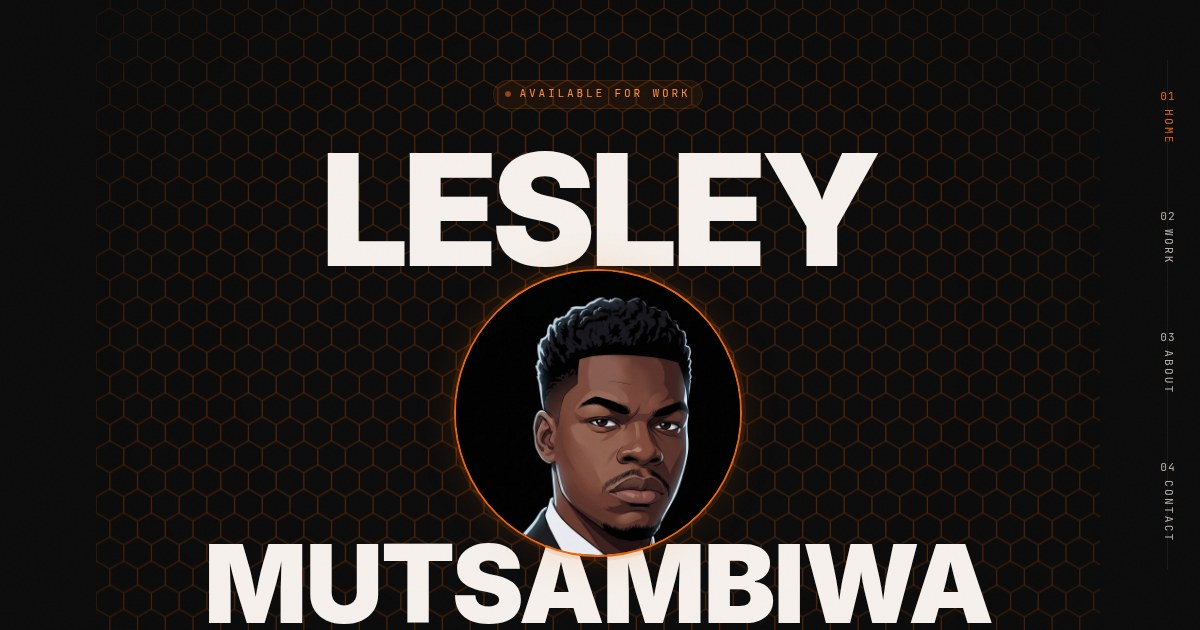
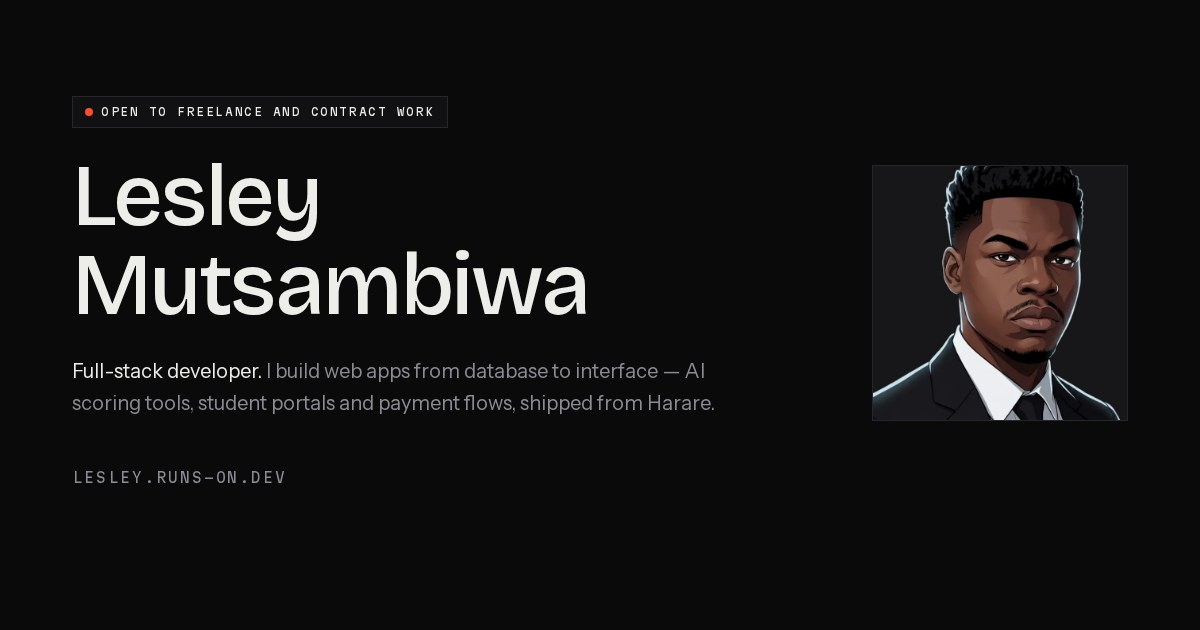
refactor: focus the site on full-stack work only
- Remove the design gallery, Kinto Designs copy and the design profile link
- Services headline now introduces the engineering ledger it sits above
- Delete unused design pieces, Vite-era screenshots and JSON, and the old
  hero portrait
- Regenerate the share image from the current hero; the old one showed a
  previous design

diff --git a/src/components/home/services-section.tsx b/src/components/home/services-section.tsx
@@ -1,12 +1,4 @@
 import Link from "next/link";
-import Image, { type StaticImageData } from "next/image";
-import auFlyer from "@/assets/images/design/africa-university-flyer.webp";
-import gdgWelcome from "@/assets/images/design/gdg-3.webp";
-import gdgJoin from "@/assets/images/design/join-93-8.webp";
-import goldenLogo from "@/assets/images/design/logo-93-8.webp";
-import goldenFlyer from "@/assets/images/design/gold-brand.webp";
-import hubLogo from "@/assets/images/design/studio-2.webp";
-import labLogo from "@/assets/images/design/studio-logo.webp";
 import { SectionLabel } from "@/components/ui/section-label";
 import { Reveal, ScrollWords } from "@/components/ui/motion-primitives";
 import { siteConfig } from "@/config/site.config";
@@ -29,7 +21,7 @@ export function ServicesSection() {
 
       <Reveal delay={0.05}>
         <h2 className="mt-6 max-w-[34ch] text-[1.5rem] leading-[1.25] tracking-[-0.02em] text-ink sm:text-[2rem]">
-          <ScrollWords text={siteConfig.designLine} />
+          <ScrollWords text={siteConfig.servicesLine} />
         </h2>
       </Reveal>
 
@@ -59,40 +51,6 @@ export function ServicesSection() {
         ))}
       </ul>
 
-      <div className="mt-14">
-        <Reveal>
-          <p className="font-mono text-label tracking-[0.14em] text-muted uppercase">
-            Design work
-          </p>
-        </Reveal>
-        {/* Columns, not a grid: flyers are tall and logos square, so each
-            piece keeps its own shape instead of being cropped to a cell. */}
-        <div className="mt-5 columns-2 gap-4 sm:columns-3 lg:columns-4">
-          {DESIGN.map((piece) => (
-            <Reveal key={piece.title} className="mb-4 break-inside-avoid">
-              <figure>
-                <a
-                  href={piece.src.src}
-                  target="_blank"
-                  rel="noopener noreferrer"
-                  className="group block overflow-hidden border border-line"
-                >
-                  <Image
-                    src={piece.src}
-                    alt={piece.alt}
-                    sizes="(max-width: 640px) 46vw, (max-width: 1024px) 30vw, 260px"
-                    className="h-auto w-full transition-transform duration-500 ease-[cubic-bezier(0.22,1,0.36,1)] group-hover:scale-[1.03]"
-                  />
-                </a>
-                <figcaption className="mt-2 font-mono text-label tracking-[0.1em] text-muted uppercase">
-                  {piece.title}
-                </figcaption>
-              </figure>
-            </Reveal>
-          ))}
-        </div>
-      </div>
-
       <Reveal delay={0.1}>
         <p className="mt-8 flex flex-wrap items-center gap-x-2 gap-y-1 text-sm text-muted">
           <span>Currently</span>
@@ -109,40 +67,3 @@ export function ServicesSection() {
   );
 }
 
-const DESIGN: { title: string; alt: string; src: StaticImageData }[] = [
-  {
-    title: "93.8 FM competition flyer",
-    alt: "Flyer for Africa University's 93.8 FM Design the Sound competition",
-    src: auFlyer,
-  },
-  {
-    title: "Golden Pieces logo",
-    alt: "Golden Pieces Investments logo in black and gold",
-    src: goldenLogo,
-  },
-  {
-    title: "GDG welcome flyer",
-    alt: "Google Developers Group Africa University flyer: New semester, new build",
-    src: gdgWelcome,
-  },
-  {
-    title: "The Hub logo",
-    alt: "The Hub logo with a microphone mark",
-    src: hubLogo,
-  },
-  {
-    title: "Golden Pieces flyer",
-    alt: "Golden Pieces Investments flyer listing stationery, printing, binding and laminating",
-    src: goldenFlyer,
-  },
-  {
-    title: "LAB logo",
-    alt: "LAB logo, white on black",
-    src: labLogo,
-  },
-  {
-    title: "GDG recruitment flyer",
-    alt: "Google Developers Group Africa University flyer: Why join us",
-    src: gdgJoin,
-  },
-];

diff --git a/src/lib/sections.data.ts b/src/lib/sections.data.ts
@@ -100,7 +100,7 @@ export const STACK_GROUPS: StackGroup[] = [
 
 /** About. The resume gives the career; the rest is the owner's to write. */
 export const ABOUT = {
-  lead: "I am a BSc Computer Science student at Africa University, the CTO and Co-Founder at Elevate Value Partners, and the lead behind Kinto Designs. Most of my work sits in the gap between a database and a person trying to use it.",
+  lead: "I am a BSc Computer Science student at Africa University, the CTO and Co-Founder at Elevate Value Partners, and Lead Developer at Tarisai. Most of my work sits in the gap between a database and a person trying to use it.",
   body: [
     "I started out explaining things. Running the Google Developer Student Club at Africa University means I run the workshops, define what everyone is building, and then read the code when it does not work. That is a better way to learn a stack than tutorials, and it is why I am usually the one explaining something to someone.",
     "Before that, I was building. At Elevate Value Partners, we built KreditZW to score credit for people the banking system has historically ignored, over USSD and mobile wallets, because that is how the users actually bank. For my own workflow, my job-automation agent reads job boards, ranks what is worth applying to, and tells me on WhatsApp instead of making me check. And GyMPal is a dark-themed PWA that tracks my skipping and bodyweight routines while working completely offline.",
@@ -114,7 +114,7 @@ export const ABOUT = {
     },
     { label: "Academic standing", value: "GPA 3.78, Dean's List" },
     { label: "Currently", value: "CTO & Co-Founder, Elevate Value Partners" },
-    { label: "Also", value: "Lead Developer, Tarisai | Designer, Kinto Designs" },
+    { label: "Also", value: "Lead Developer, Tarisai" },
     { label: "In the club", value: "GDSC Lead, Africa University" },
   ],
 } as const;

diff --git a/src/config/site.config.ts b/src/config/site.config.ts
@@ -18,8 +18,8 @@ export type SiteConfig = {
   /** Short plain sentence for the hero. Drafted from the owner's resume;
    *  still needs the owner's sign-off. */
   tagline: string;
-  /** The one honest design line. Appears once, in Services. */
-  designLine: string;
+  /** Services headline. */
+  servicesLine: string;
   /** One human detail. Appears in the hero bio line. */
   humanLine: string;
 
@@ -43,9 +43,6 @@ export type SiteConfig = {
 
   githubUsername: string;
   linkedinUrl: string;
-  /** Exactly one design profile. No 14-link social rows. */
-  designProfileUrl: string;
-  designProfileLabel: string;
 
   /** Max four. */
   socials: SocialLink[];
@@ -87,8 +84,7 @@ export const siteConfig: SiteConfig = {
   role: "Full-stack developer.",
   tagline:
     "I build web apps from database to interface — AI scoring tools, student portals and payment flows, shipped from Harare.",
-  designLine:
-    "I also design, working under Kinto Designs. The logos and flyers in this portfolio are mine.",
+  servicesLine: "What I take on, and where I have already done it.",
   humanLine:
     "CTO and Co-Founder at Elevate Value Partners, where we are building KreditZW so people the banks overlook can get scored without walking into a branch. I run the Google Developer Student Club at Africa University, which is why I am usually explaining something to someone.",
 
@@ -122,8 +118,6 @@ export const siteConfig: SiteConfig = {
 
   githubUsername: "Le-e-lab",
   linkedinUrl: "https://www.linkedin.com/in/lesley-mutsambiwa/",
-  designProfileUrl: "",
-  designProfileLabel: "Kinto Designs",
 
   socials: [
     { label: "GitHub", href: "https://github.com/Le-e-lab", handle: "Le-e-lab" },

diff --git a/src/components/home/contact-section.tsx b/src/components/home/contact-section.tsx
@@ -93,14 +93,6 @@ export function ContactSection() {
                   external
                 />
               )}
-              {siteConfig.designProfileUrl && (
-                <Row
-                  label={siteConfig.designProfileLabel}
-                  value="Design work"
-                  href={siteConfig.designProfileUrl}
-                  external
-                />
-              )}
               {siteConfig.bookingUrl && (
                 <Row
                   label="Booking"

diff --git a/docs/orchestration/debt_ledger.md b/docs/orchestration/debt_ledger.md
@@ -55,16 +55,13 @@
   real on every `next build`.
 - **Priority:** Closed, documented
 
-### 5. Dead Vite-era assets (design pieces now live in Services; the rest still dead)
-- **Location:** `public/images/design/` (14 files), `public/images/projects/`
-  (6), `public/images/hero-portrait.{jpg,webp}`, `public/design-projects.json`,
-  `public/projects.json`, `src/assets/images/design/` (3 files)
-- **Status:** Zero references anywhere in `src/` or `content/`. The only live
-  `public/` asset is `og-image.jpg` via `siteConfig.ogImagePath`. The fake
-  screenshots under `public/images/` are now gitignored so they cannot ship.
-- **Upgrade path:** Delete, or move the design pieces somewhere deliberate if
-  the portfolio is ever meant to show graphic work.
-- **Priority:** Low — harmless, just weight in the repo
+### 5. Dead Vite-era assets
+- **Status:** Closed 2026-10-06. The design pieces, Vite-era screenshots,
+  `projects.json`, `design-projects.json` and the old hero portrait were removed
+  when the site narrowed to full-stack work only. Untracked fake SVG files may
+  still sit in `public/images/{about,food,projects}/` locally; they are
+  gitignored and never ship.
+- **Priority:** Closed
 
 ### 6. Cover `minWidth` is aspirational
 - **Location:** `images.manifest.ts` → `WORK_COVER_MIN = { 2400, 1500 }`
